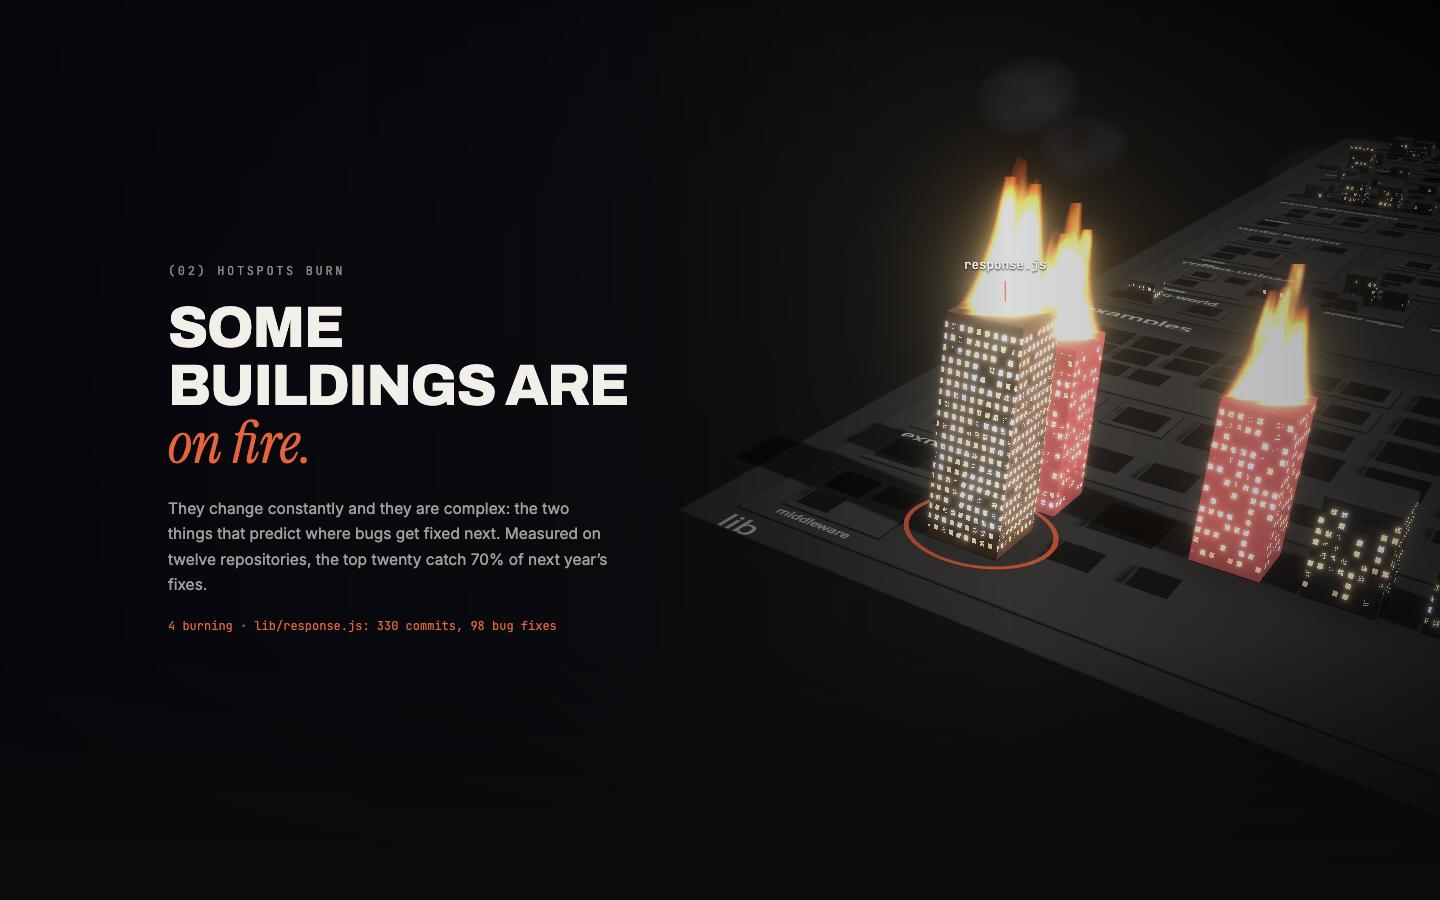
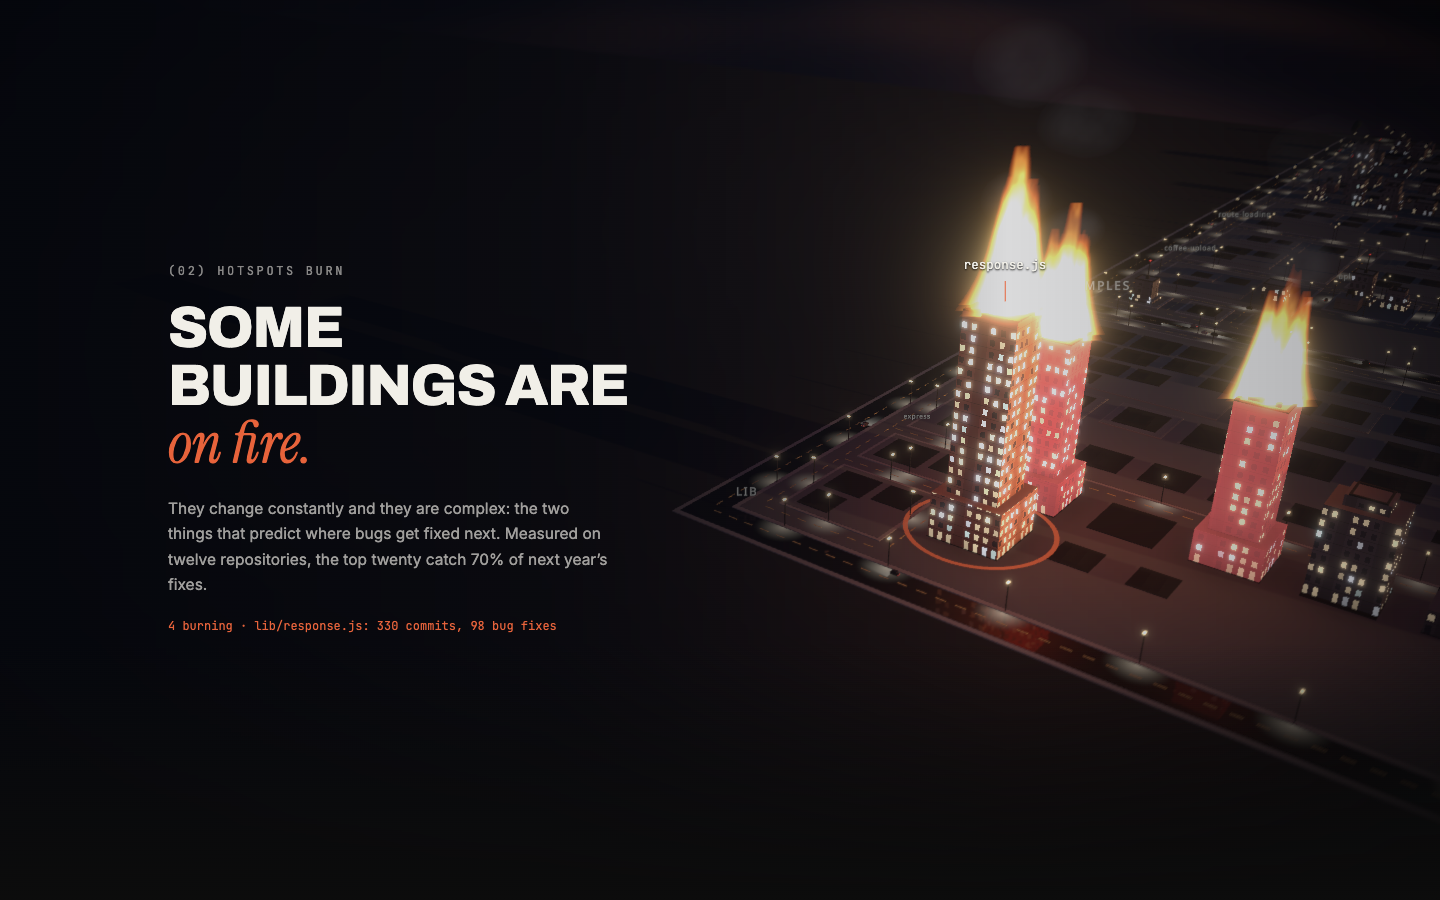
README: current features and fresh screenshots

diff --git a/README.md b/README.md
@@ -5,7 +5,7 @@ codebase as a 3D city built from its commit history: folders are districts,
 files are buildings, height is lines of code, and the buildings on fire are the
 hotspots where the next bugs will be fixed.
 
-![react/react as a city, colored by owner: 7.3k buildings, 135 on fire, and the findings panel reading "if @josephsavona left, 2916 files would have no active owner"](docs/images/react-owners.png)
+![react/react as a city at dusk, colored by owner: 7.3k buildings, 135 on fire, and the findings panel reading "if @josephsavona left, 2915 files would have no active owner"](docs/images/react-owners.png)
 
 Everything comes from `git log`. No working tree is checked out, no code is
 uploaded anywhere, and the hosted analyzer runs in a scale-to-zero container
@@ -47,16 +47,18 @@ Each one is a button that shows it.
   lens when a city is built against a base commit.
 - **Walk mode.** Drop to street level and walk the districts with collision.
 - **Find anything.** ⌘K jumps to a file; the camera flies there and tags it.
-- **A tour** on every open, skippable in one click, and a landing page where the
-  city demonstrates each idea as you scroll.
+  `?` lists every key.
+- **A tour** the first time a city opens (replay it any time), and a landing
+  page where the city demonstrates each idea as you scroll.
 - **A real city at dusk.** Towers with setbacks and spires, floors and
   storefronts on the facades, sidewalks, lamps, trees, lane markings, traffic
   with headlights, a harbour the skyline reflects in, and fire that lights up
   the buildings around it. Cranes appear on buildings that are growing;
   demolitions leave rubble.
-- **Two looks.** Dusk (the default) and Noir (black and white, the fires are
-  the only colour). Pick one in the lens panel or with `?theme=noir`; shared
-  links and postcards keep it.
+- **Two looks, and daylight.** Dusk (the default) and Noir (black and white,
+  the fires are the only colour), each in dusk or daylight. Pick them in the
+  lens panel or with `?theme=noir&day=1`; shared links and postcards keep
+  them, and your preferences are remembered.
 - **Postcard and film.** Save a 2x picture of the city, or run a forty second
   flythrough over its findings.
 - **Shareable.** Every view is a URL (`/r/owner/repo?t=0.4&mode=owners&f=12`),
@@ -66,6 +68,11 @@ Each one is a button that shows it.
 - **Yours stays yours.** The front page lists the cities this browser built,
   with how far each has fallen behind its repository and a rebuild; nobody
   else sees them. A short curated set is featured for first-time visitors.
+- **No dead ends.** A city link that is still building shows the live
+  progress and opens when it lands; one that was never built offers to build
+  it; a bad address, a private repository, a repository over the size cap and
+  a spent monthly budget each say so plainly. Phones get the repository's
+  skyline and a note that the city wants a desktop.
 
 ![The landing page: the headline "every repository is a city" over the live express city](docs/images/landing.png)
 
@@ -85,17 +92,21 @@ entirely in your CI; nothing leaves the runner. See [`action/`](action/README.md
 
 ## Hosted service
 
-`edge/` is a Cloudflare Worker (viewer, API, badges, short links, gallery) with
-the analyzer running in a Cloudflare Container that scales to zero. Paste a repo
-URL and watch it build with live progress, including git's own clone percentage
-for the big ones. Cities are immutable per commit and served pre-gzipped from R2.
+`edge/` is a Cloudflare Worker (viewer, API, badges, link previews, short
+links) with the analyzer running in a Cloudflare Container that scales to zero.
+Paste a repo URL and watch it build with live progress, an estimate from the
+repository's size, and git's own clone percentage for the big ones. Cities are
+immutable per commit and served pre-gzipped from R2; `/api/repo/owner/name`
+says whether a city is behind its repository.
 
 ```md
 ![CodeSkyline](https://<your-worker>/badge/owner/repo.svg)
 ```
 
 The badge takes `?theme=light`, `?label=<text>` and `?bare=1` (the silhouette
-alone, for your own layout). Hotspot columns are drawn in orange.
+alone, for your own layout). Hotspot columns are drawn in orange, and the
+stats end with how long ago the city was built. Every `/r/owner/repo` page
+carries Open Graph tags and a 1200×630 preview image rendered in the Worker.
 
 Deploy steps and the cost guardrails (monthly job budget, repository size cap,
 rate limits) are in [`edge/README.md`](edge/README.md). Budget: the $5 Workers
@@ -140,8 +151,8 @@ pnpm dev:edge       # http://localhost:8787, the hosted API with a local contain
 ```
 
 Drop any `*.city.json` produced by `csky` onto the page to render it. Drag to
-orbit, scroll to zoom, space to play, ⌘K (Ctrl+K) to find a file, Walk to stroll
-the streets.
+orbit, scroll to zoom, space to play, ⌘K (Ctrl+K) to find a file, `d` for
+daylight, `?` for every key, Walk to stroll the streets.
 
 ## Development
 
@@ -150,7 +161,7 @@ cd analyzer && go test ./...          # analyzer
 pnpm --filter web test                # viewer unit tests
 pnpm --filter web typecheck
 pnpm --filter edge test               # worker
-node web/scripts/shot.mjs http://localhost:5173 shot.png   # headless screenshot + console
+node web/scripts/shot.mjs http://localhost:5173 shot.png   # headless screenshot on the GPU + console
 ```
 
 [`docs/architecture.md`](docs/architecture.md) explains the pipeline, the city
